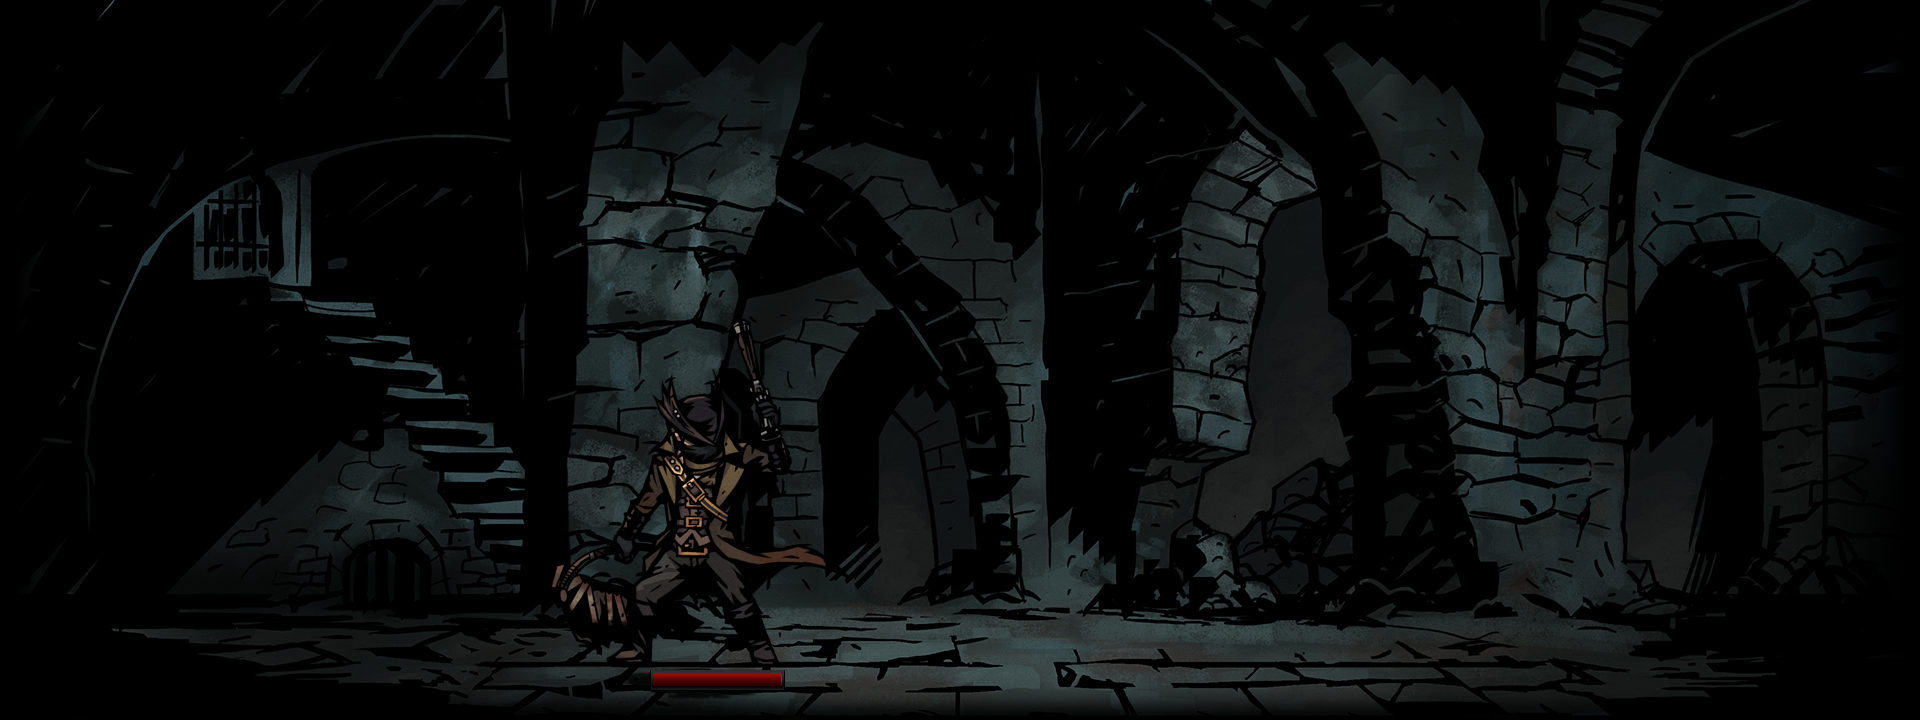
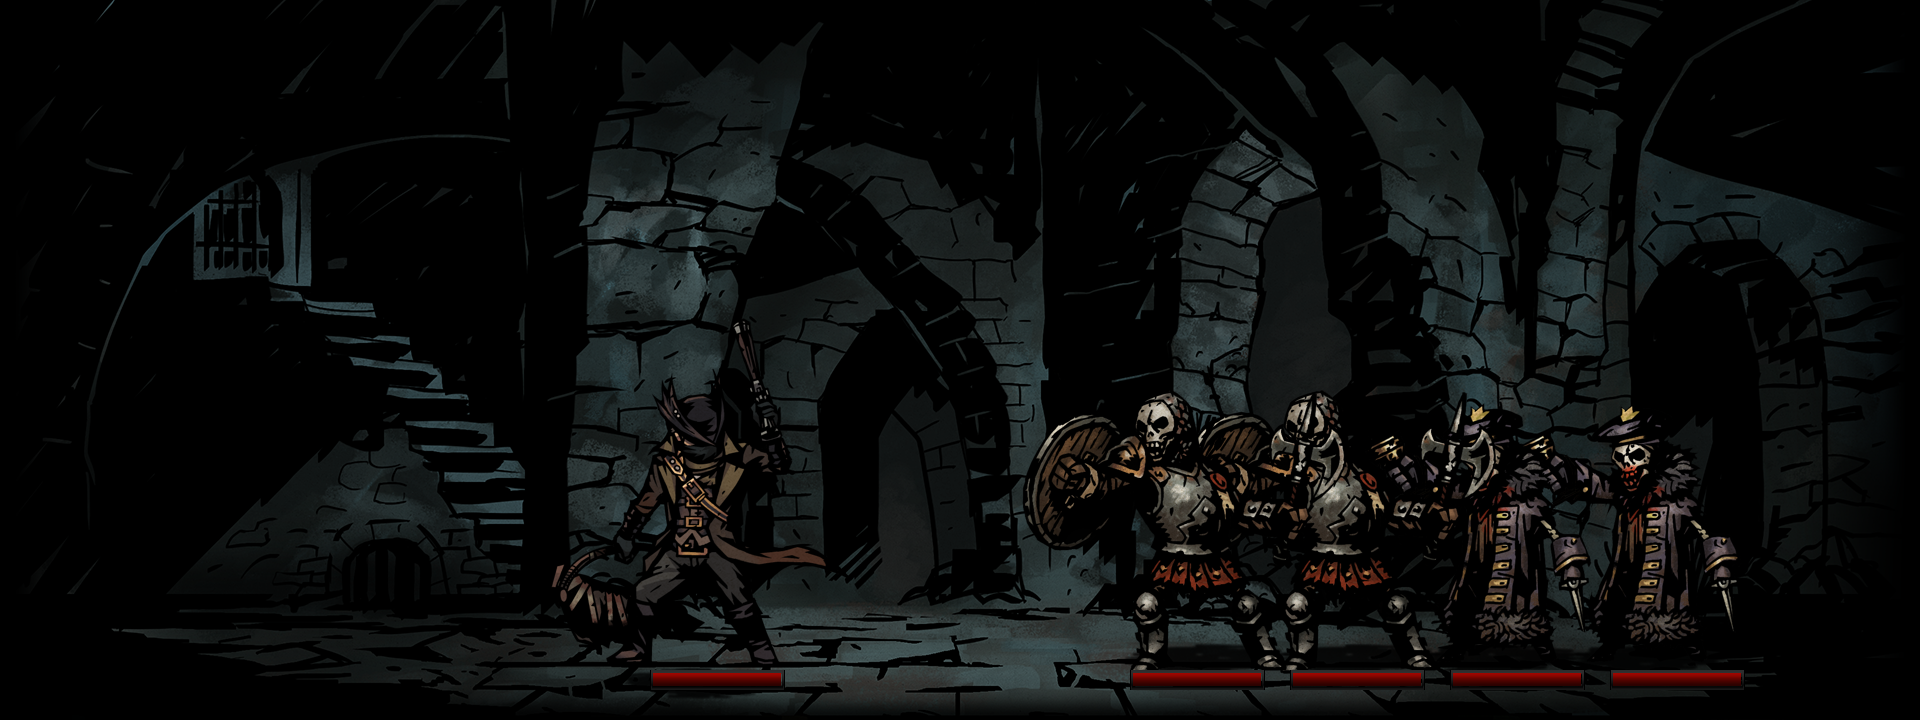
v4

Changed region(s): [[0.5312, 0.55, 0.9062, 0.9778]]

diff --git a/app.py b/app.py
@@ -2,11 +2,12 @@ from asyncore import read
 import os, random
 import configparser
 import json
+from tkinter import E
 import pyimgur
 from setuptools import Command
 import pic
 
-from pic import add_enemy, add_player, profession, generate
+from pic import add_enemy, add_player, profession, generate, background, scene_name, env, player, enemy
 from PIL import Image
 from flask import Flask, jsonify, request, abort, send_file
 from dotenv import load_dotenv
@@ -60,17 +61,10 @@ line_bot_api    = LineBotApi(token)
 parser          = WebhookParser(secret)
 
 state           = 0
-acted           = 0
-ready           = 0
-env             = pic.env
-scene_name      = pic.scene_name
-background      = pic.background
+Round           = 0
 team            = []
 raid            = []
 command         = [[],[],[],[]]
-player          = pic.player
-enemy           = pic.add_enemy
-profession      = pic.profession
 skillArr        = pic.skillArr
 crypt_raid      = pic.crypt_raid
 cove_raid       = pic.cove_raid
@@ -78,10 +72,6 @@ warrens_raid    = pic.warrens_raid
 weald_raid      = pic.weald_raid
 #================================================================================================================
 def upload():
-    background = Image.open(var['scene'][env] + '/' + scene_name)
-    generate()
-    background.save('./img/bg.png')
-
     im      = pyimgur.Imgur(imgur_id)
     upload  = im.upload_image('./img/bg.png', title = "img") 
     url     = upload.link
@@ -91,7 +81,12 @@ def upload():
         ImageSendMessage(original_content_url = url, preview_image_url = url)
     )
 def createRaid():
-    raid = cove_raid[random.randint(0, 12)]
+    global raid
+    if(env == 'cove'):      raid = cove_raid[random.randint(0, 12)]
+    elif(env == 'crypts'):  raid = crypt_raid[random.randint(0, 12)]
+    elif(env == 'warrens'): raid = warrens_raid[random.randint(0, 12)]
+    else:                   raid = weald_raid[random.randint(0, 12)]
+
     for it in raid:
         f = False
         dmg = int(enemy_var['damage'][it])
@@ -99,19 +94,20 @@ def createRaid():
         if(enemy_var['assist'][it] == '1'): f = True
 
         add_enemy(it, f, hp, dmg, 0)
-    upload()
-def battle():
-    global player, team, profession, state, background, var, ready
-    ready = 0
-    ind = 0
 
+def battlePlayerTurn():
+    global player, enemy, background, command
+    ind = 0
+    for it in enemy:
+        it.move = 'idle'
     for it in player:
         mult = False
-        try:
-            command[ind][1] = int(command[ind][1])
-        except:
-            mult = True
-        skill = it.skills[i]
+        try: command[ind][1] = int(command[ind][1])
+        except: mult = True
+
+        for i in range(len(it.skills)):
+            if(command[ind][0] == it.skills[i].name): skill = it.skills[i]
+        
         if(skill.attribute > 0): it.move = 'atk'
         else: it.move = 'assist'
                         
@@ -128,22 +124,13 @@ def battle():
                         
             if(critical):
                 aim.Hp -= int (float(it.damage) * float(skill.power) * random.uniform(0.8, 1.2) * 2)
-                line_bot_api.reply_message(
-                    replyToken,
-                    TextSendMessage(text = 'Critical atk! '+ it.ID + ' use ' + skill.name + ' ,' + aim.name + ' remain: ' + str(aim.Hp))
-                )
+                print('Critical atk on ' + aim.name + ' hp: ' + str(aim.Hp))
             elif(hit):    #atk hitted
                 aim.Hp -= int (float(it.damage) * float(skill.power) * random.uniform(0.8, 1.2))
-                line_bot_api.reply_message(
-                    replyToken,
-                    TextSendMessage(text = it.ID + ' use ' + skill.name + ' ,' + aim.name + ' remain: ' + str(aim.Hp))
-                )
+                print('atk on ' + aim.name + ' hp: ' + str(aim.Hp))
             else:       #atk miss
                 aim.move = 'miss'
-                line_bot_api.reply_message(
-                    replyToken,
-                    TextSendMessage(text = aim.name + 'avoid attack')
-                )
+                print('miss!')
         elif(mult and skill.num > 1):
             timer = 0
             for i in range(len(enemy)):
@@ -160,26 +147,19 @@ def battle():
 
                 if(critical):
                     aim.Hp -= int (float(it.damage) * float(skill.power) * random.uniform(0.8, 1.2) * 2)
-                    line_bot_api.reply_message(
-                        replyToken,
-                        TextSendMessage(text = 'Critical atk! '+ it.ID + ' use ' + skill.name + ' ,' + aim.name + ' remain: ' + str(aim.Hp))
-                    )
+                    print('Critical atk on ' + aim.name + ' hp: ' + str(aim.Hp))
                 elif(hit):    #atk hitted
                     aim.Hp -= int (float(it.damage) * float(skill.power) * random.uniform(0.8, 1.2))
-                    line_bot_api.reply_message(
-                        replyToken,
-                        TextSendMessage(text = it.ID + ' use ' + skill.name + ' ,' + aim.name + ' remain: ' + str(aim.Hp))
-                    )
+                    print('atk on ' + aim.name + ' hp: ' + str(aim.Hp))
                 else:       #atk miss
                     aim.move = 'miss'
-                    line_bot_api.reply_message(
-                        replyToken,
-                        TextSendMessage(text = aim.name + 'avoid attack')
-                    )
-        ind += 1
-    
+                    print('miss!')
+    ind += 1
+    background  = Image.open(var['scene'][env] + '/' + scene_name)
+    generate(background)
     upload()
-    
+def battleEnemyTurn():
+    global player, enemy, background
     for it in player:
         it.move = 'idle'
     for i in range(len(enemy)):
@@ -204,31 +184,21 @@ def battle():
             
         if(critical):
             aim.Hp -= int (float(enemy[i].damage) * random.uniform(0.8, 1.2) * 2)
-            #print('Critical atk! '+ aim.ID + ' remain: ' + str(aim.Hp))
-            line_bot_api.reply_message(
-                replyToken,
-                TextSendMessage(text = 'Critical atk! '+ aim.ID + ' remain: ' + str(aim.Hp))
-            )
+            print('Critical atk! '+ aim.ID + ' remain: ' + str(aim.Hp))
         elif(hit):
             aim.Hp -= int (float(enemy[i].damage) * random.uniform(0.8, 1.2))
-            #print(aim.ID + ' remain: ' + str(aim.Hp))
-            line_bot_api.reply_message(
-                replyToken,
-                TextSendMessage(text = aim.ID + ' remain: ' + str(aim.Hp))
-            )
+            print(aim.ID + ' remain: ' + str(aim.Hp))
         else:
             aim.move = 'miss'
-            line_bot_api.reply_message(
-                replyToken,
-                TextSendMessage(text = aim.name + 'avoid attack')
-            )
-    
+            print('miss!')
+    background  = Image.open(var['scene'][env] + '/' + scene_name)
+    generate(background)
     upload()
 
 #recieve and transfer
 @app.route("/callback", methods=["POST"])
 def callback():
-    global player, team, profession, state, background, var, ready
+    global team, player, enemy, background, scene_name, replyToken, state, env, Round
     signature = request.headers["X-Line-Signature"]
     # get request body as text
     body = request.get_data(as_text=True)
@@ -242,7 +212,6 @@ def callback():
 
     # if event is MessageEvent and message is TextMessage, then echo text
     for event in events:
-        global replyToken
         replyToken = event.reply_token
         if not isinstance(event, MessageEvent):
             continue
@@ -258,7 +227,7 @@ def callback():
             if (words[0] == '清除' or words[0] == 'clear'):
                 team    = []
                 player  = []
-                background  = Image.open(var['scene']['crypts'] + '/' + random.choice(os.listdir(var['scene']['crypts'])))
+                background  = Image.open(var['scene'][env] + '/' + scene_name)
                 line_bot_api.reply_message(
                     event.reply_token,
                     TextSendMessage(text = '隊伍清除')
@@ -282,7 +251,7 @@ def callback():
                     TextSendMessage(text = '創建職業 : ' + profession[int(words[1])])
                 )
             elif(words[0] == 'check'):
-                generate()
+                generate(background)
                 background.save('./img/bg.png')
 
                 im      = pyimgur.Imgur(imgur_id)
@@ -293,17 +262,32 @@ def callback():
                     event.reply_token,
                     ImageSendMessage(original_content_url = url, preview_image_url = url)
                 )
-            elif(words[0] == '環境選擇' and words[1]):
-                state = 1
+            elif(words[0] == '環境' and words[1]):
+                enemy = []
                 env   = words[1]
+                scene_name  = random.choice(os.listdir(var['scene'][env]))
+                background  = Image.open(var['scene'][env] + '/' + scene_name)
                 line_bot_api.reply_message(
                     event.reply_token,
                     TextSendMessage(text = '環境已選擇 '+ env)
                 )
             elif(words[0] == 'start'):
                 state = 1
+                background  = Image.open(var['scene'][env] + '/' + scene_name)
                 createRaid()
+                generate(background)
+                background.save('./img/bg.png')
+
+                im      = pyimgur.Imgur(imgur_id)
+                upload  = im.upload_image('./img/bg.png', title = "img") 
+                url     = upload.link
+                
+                line_bot_api.reply_message(
+                    event.reply_token,
+                    ImageSendMessage(original_content_url = url, preview_image_url = url)
+                )
         else:
+            ready = 0
             ind = 0
             for i in range(len(player)):
                 if(player[i].ID == id): ind = i
@@ -313,7 +297,11 @@ def callback():
                     ready += 1
                     break
             if(ready == len(team)):
-                battle()
+                Round = 1
+                battlePlayerTurn()
+            elif(Round == 1):
+                Round = 0
+                battleEnemyTurn()
     return "OK"
 
 @app.route("/webhook", methods=["POST"])

diff --git a/pic.py b/pic.py
@@ -135,6 +135,7 @@ weald_raid = [
 ]
 #================================================================================================================
 def add_player(id, carrer_num):
+    global player
     idle    = Image.open(var['character'][profession[carrer_num]] + 'A' + '.png')
     atk     = Image.open(var['character'][profession[carrer_num]] + 'A_atk' + '.png')
     assist  = Image.open(var['character'][profession[carrer_num]] + 'A_assist' + '.png')
@@ -169,6 +170,7 @@ def add_player(id, carrer_num):
     player.append(Career(id, 'idle', idle, atk, assist, miss, MaxHp, Hp, damage, defence, Maxmind, mind, False, skills, 1, 1))
 
 def add_enemy(name, f, MaxHp, damage, defence):
+    global enemy
     idle    = Image.open('./sprite/monsters/' + name + '/' + name +'.png')
     atk     = Image.open('./sprite/monsters/' + name + '/' + name +'_atk.png')
     miss    = Image.open('./sprite/monsters/' + name + '/' + name +'_miss.png')
@@ -189,7 +191,7 @@ def add_enemy(name, f, MaxHp, damage, defence):
     else:
         enemy.append(Enemy(name, 'idle', idle, atk, atk, miss, MaxHp, Hp, damage, defence, False, skills))
 
-def generate():
+def generate(background):
     for it in player:
         if(it.Hp <= 0): player.remove(it)
     for i in range(len(player)):
@@ -234,12 +236,4 @@ def generate():
 
         background.paste(img, ( 1200 + 150 * (len(enemy) - i - 1) - offset[0], 675 - offset[1]), img)
         background.paste(bar, ( 1130 + 160 * (len(enemy) - i - 1) , 670), bar)
-
-#add_player('alchemist', 0)
-#add_player('archer', 1)
-#add_player('bounty', 2)
-#add_player('hunter', 3)
-#add_player('jester', 4)
-#add_player('knight', 5)
-#add_player('tank', 6)
-#add_player('vestal', 7)
+    background.save('./img/bg.png')
